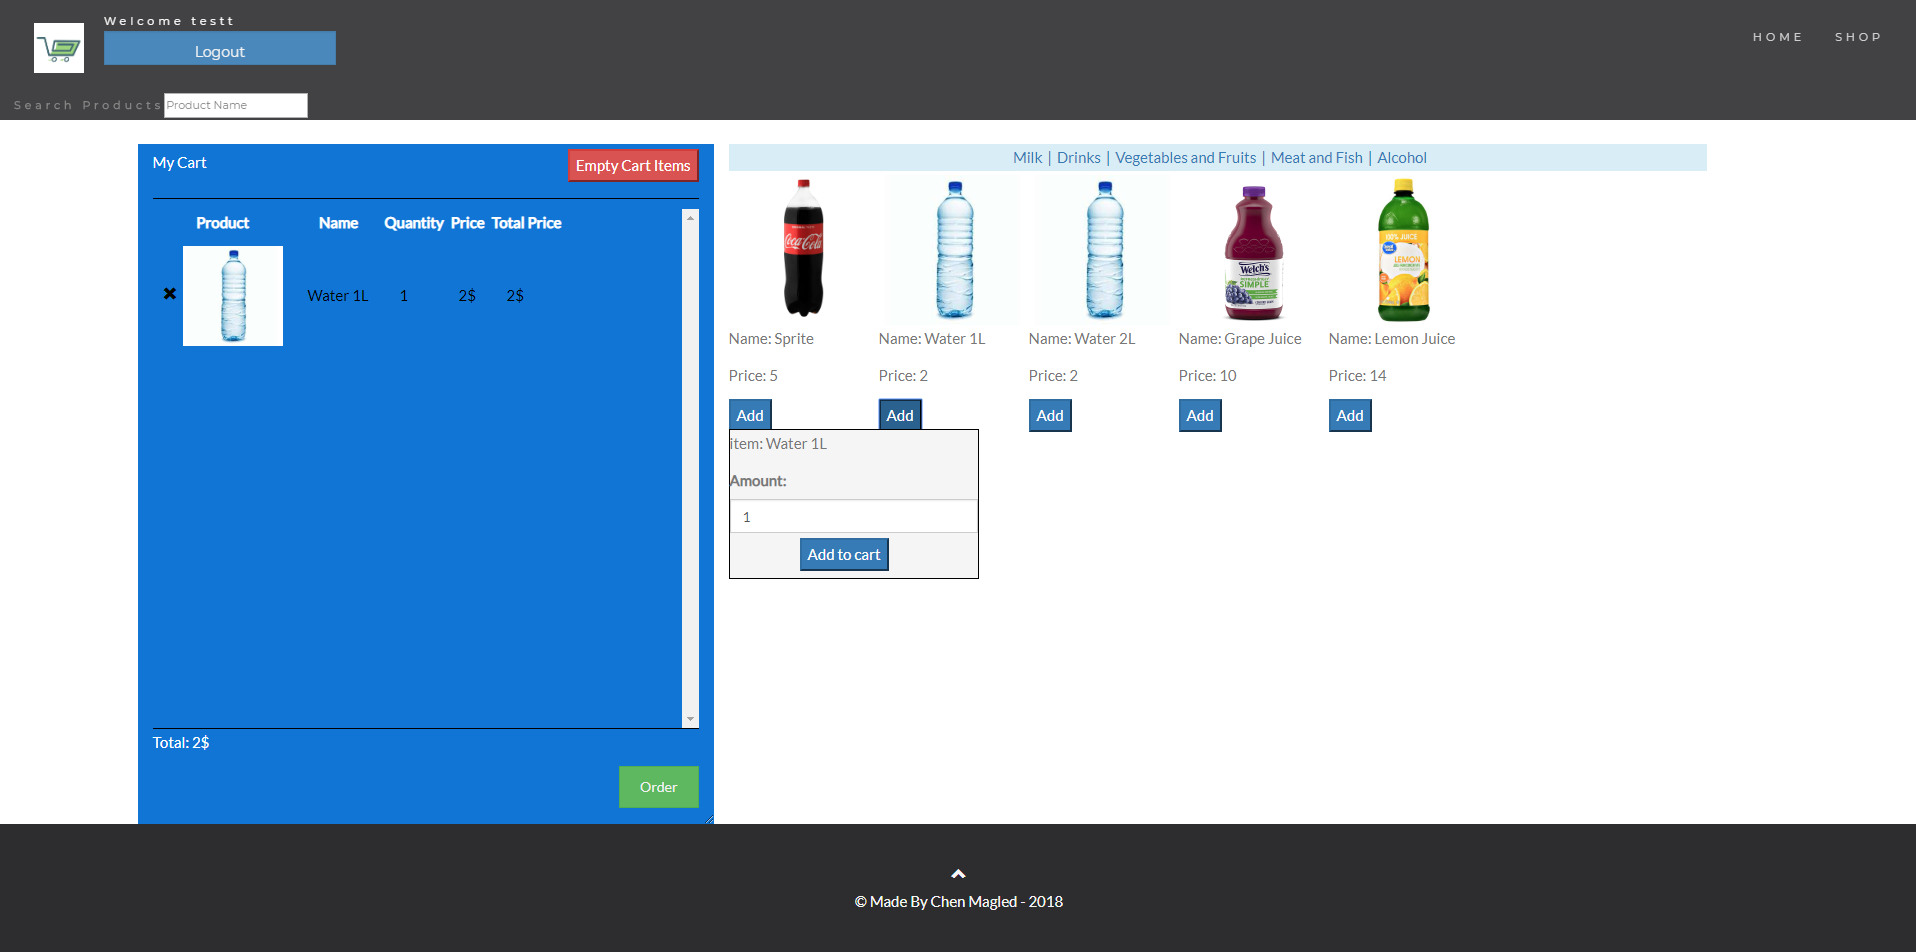
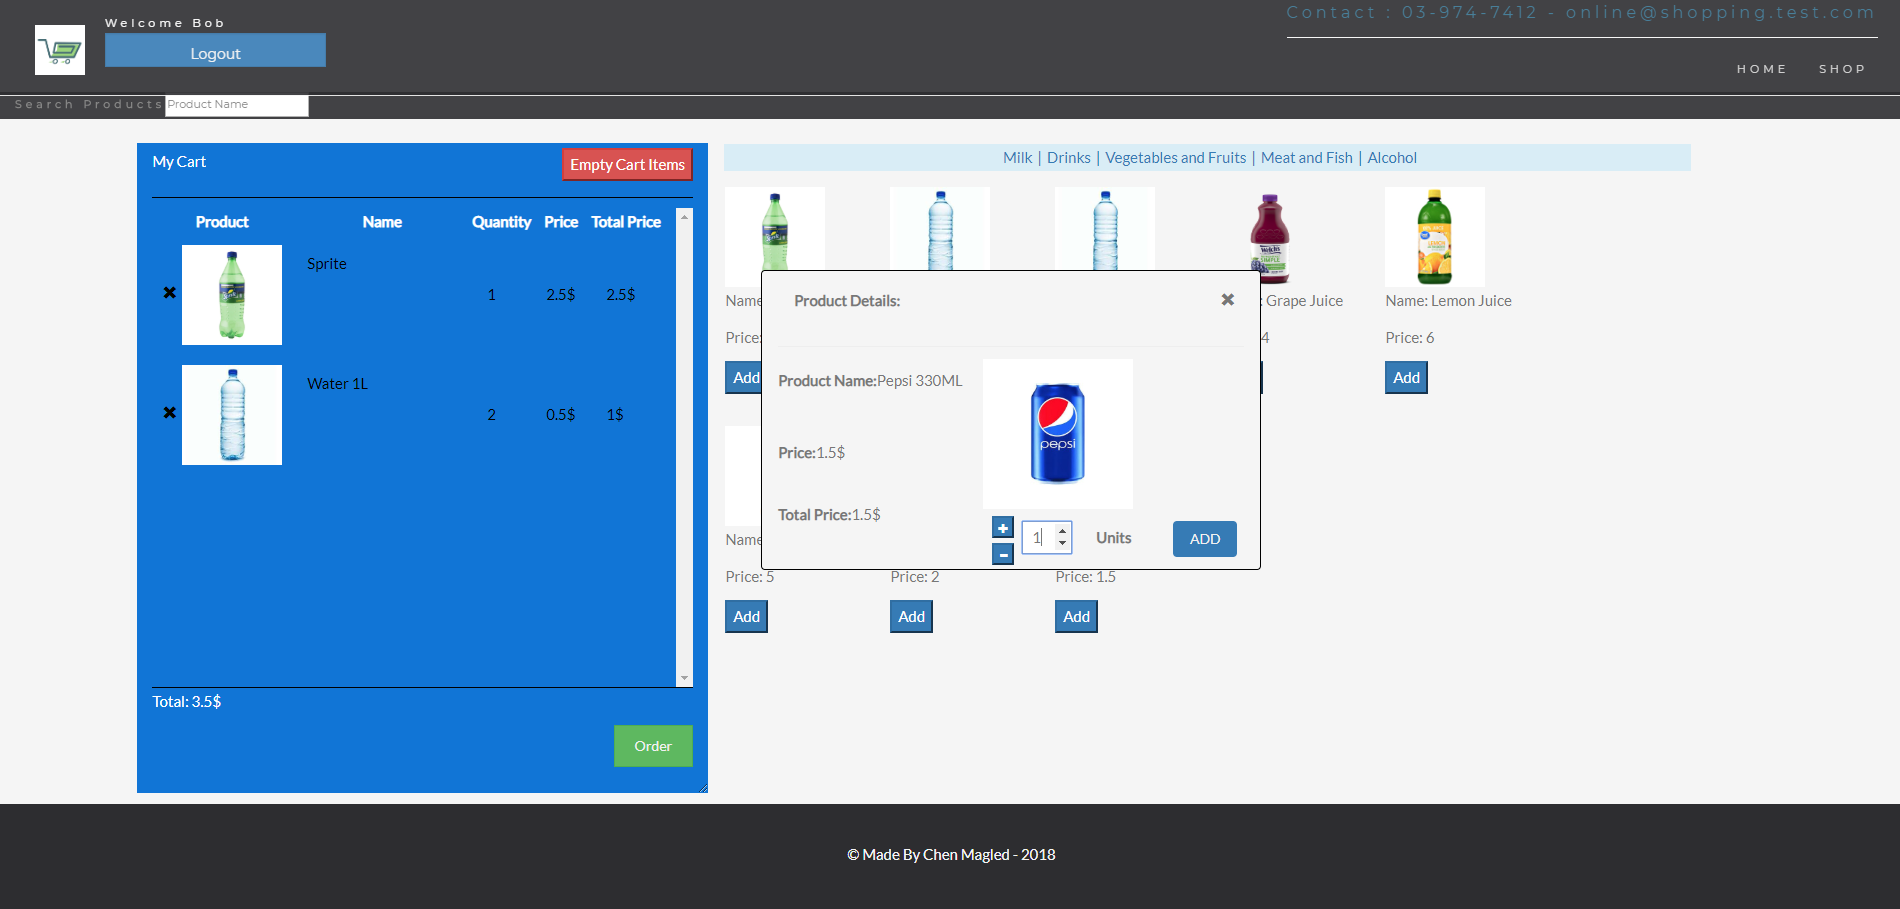
Home Page pictures and text, header improvements with contactus, pictures, etc

diff --git a/Shopping Online/client/src/app/home/home.component.html b/Shopping Online/client/src/app/home/home.component.html
@@ -10,15 +10,33 @@
         <div class="col-sm-4 flex-grow-0 bg-primary homeContainerDiv"><!-- Description -->
             
             <div class="w-50 h-50">
-                Please buy from us!!!!!! we are good!
+                <h2>Why you should buy from us:</h2>
+                <ul>
+
+                    <li>Customer friendly e-commerce website to securely purchase items online.</li>
+                    <li>Customers save time and money buying from shopping online.</li>
+                    <li>Our store provides exceptional and extraordinary customer service with attention to detail.</li>
+                    <li>Items offered at best possible prices.</li>
+                    <li>Free gift wrapping & personalised service.</li>
+                    <li>Free delivery* to your doorstep by courier.</li>
+
+                </ul>
+                <span>* Checkout total price is more than 49.99$</span>
+                <div class="customerServiceBadge">
+                        <img width="150px" src='/assets/images/world-class-customer-service_large.png'/>
+                </div>
+
             </div>
 
         </div>
         <div class="col-sm-3 flex-grow-0 bg-primary homeContainerDiv"><!-- Statistics -->
  
             <div class="w-50 h-50">
-                Picture(img)
+
+                <img id="shopOnlineImg" width="400px" src='/assets/images/shoppingBanner.jpg'/>
+                <hr>
                <p>Available products in our store: {{productsCounter.count}}</p>
+               <hr>
                <p>Number of orders submitted in our store: {{ordersCounter.count}}</p>
 
                 <div class="notificationInfoContainer">

diff --git a/Shopping Online/client/src/app/my-cart/my-cart.component.html b/Shopping Online/client/src/app/my-cart/my-cart.component.html
@@ -26,16 +26,16 @@
               <td><a *ngIf="user.state === 'shopping'" (click)="removeCartItem(cartitem._id)" class="text-dark" href="javascript:"><span class="glyphicon glyphicon-remove"></span></a> <img [src]="cartitem.imageAddress" width="100"></td>
               
               <div [ngSwitch]="cartItemSearch.cartItems.includes(cartitem.name) && user.state === 'order'">
-                  <td *ngSwitchCase = "true" ><span class="productSpan bg-warning">{{cartitem.name}}</span></td>
-                  <td *ngSwitchCase = "false" ><span class="productSpan">{{cartitem.name}}</span></td>
+                  <td *ngSwitchCase = "true" ><span class="productSpan bg-warning cartItemNameTD">{{cartitem.name}}</span></td>
+                  <td *ngSwitchCase = "false" ><span class="productSpan cartItemNameTD">{{cartitem.name}}</span></td>
 
               </div>
 
 
 
-              <td><span class="productSpan">{{cartitem.amount}}</span></td>
+              <td class="cartItemAmountTD"><span class="productSpan">{{cartitem.amount}}</span></td>
               <td><span class="productSpan">{{cartitem.priceSingle}}$</span></td>
-              <td><span class="productSpan">{{cartitem.totalPrice}}$</span></td>
+              <td class="cartItemTotalPriceTD"><span class="productSpan ">{{cartitem.totalPrice}}$</span></td>
     
             </tr>
     

diff --git a/Shopping Online/client/src/app/order-creation/order-creation.component.ts b/Shopping Online/client/src/app/order-creation/order-creation.component.ts
@@ -16,7 +16,7 @@ export class OrderCreationComponent implements OnInit {
   orderAvailableCities: any = {cities: []};
   orderForm: FormGroup;
   orderFormErrors: any = { errors: []};
-
+  today: String;
 
   constructor(private myUserService: UserService, private myOrderService: OrdersService, private myHttpClient: HttpClient) {
 
@@ -26,12 +26,31 @@ export class OrderCreationComponent implements OnInit {
 
       city: this.getFormControl(2, 25, 'City'),
       street: this.getFormControl(2, 25, 'Street'),
-      shippingDate: new FormControl(''),
+      shippingDate: new FormControl('', [
+        f => (!f.value ?  { err: `` } : null),
+        f => (!f.value && !f.pristine ? { err: `Date is required` } : null),
+      ]),
       visaDigits: this.getFormControl(4, 4, 'Visa Digits'),
 
     };
 
     this.orderForm = new FormGroup(orderFormConfig);
+
+    const today = new Date();
+    let dd = today.getDate();
+    let mm = today.getMonth() + 1; // January is 0!
+    const yyyy = today.getFullYear();
+
+    if (dd < 10) {
+        dd = '0' + dd;
+    }
+
+    if (mm < 10) {
+        mm = '0' + mm;
+    }
+
+    this.today = yyyy + '-' + mm + '-' + dd;
+
   }
 
   initOrderCities() {

diff --git a/Shopping Online/client/src/app/mat-product-confirm-dialog/mat-product-confirm-dialog.component.ts b/Shopping Online/client/src/app/mat-product-confirm-dialog/mat-product-confirm-dialog.component.ts
@@ -14,6 +14,7 @@ export class MatProductConfirmDialogComponent implements OnInit {
   ProductQuantityValue: Number;
   selectedProductForCart: any = {product: undefined};
   user: User;
+  maxProducts: Number = 15;
 
   // tslint:disable-next-line:max-line-length
   constructor(private myProductsService: ProductsService, private myUserService: UserService, private matdialog: MatDialog ) {
@@ -33,6 +34,7 @@ export class MatProductConfirmDialogComponent implements OnInit {
 
   plusOneQuantity (quantity) {
     quantity++;
+    if ( quantity > this.maxProducts ) { return; }
     this.ProductQuantityValue = quantity;
   }
 
@@ -44,6 +46,10 @@ export class MatProductConfirmDialogComponent implements OnInit {
   }
 
   updateQuantity (quantity) {
+    if ( quantity > this.maxProducts ) {
+      this.ProductQuantityValue = this.maxProducts;
+      return;
+    }
     this.ProductQuantityValue = quantity;
   }
 

diff --git a/Shopping Online/client/src/app/order-creation/order-creation.component.html b/Shopping Online/client/src/app/order-creation/order-creation.component.html
@@ -26,7 +26,7 @@
 
             <div class="form-group">
                 <label>Shipping Date:</label>
-                <input type="date" class="form-control" formControlName="shippingDate" />
+                <input type="date" [min]="today" class="form-control" [value]="today" formControlName="shippingDate" />
                 <p>{{orderForm.controls.shippingDate.errors?.err}}</p>
             </div>
 
@@ -34,7 +34,7 @@
 
             <div class="form-group">
                 <label>Credit Card:</label>
-                <input type="text" class="form-control" formControlName="visaDigits" #visaDigitsInput/>
+                <input type="text"class="form-control" formControlName="visaDigits" #visaDigitsInput/>
                 <p>{{orderForm.controls.visaDigits.errors?.err}}</p>
             </div>
 

diff --git a/Shopping Online/client/src/app/mat-product-confirm-dialog/mat-product-confirm-dialog.component.html b/Shopping Online/client/src/app/mat-product-confirm-dialog/mat-product-confirm-dialog.component.html
@@ -25,7 +25,7 @@
       </div>
 
       <div class="container_of_quantities">
-        <input #quantity class="input_quantity_of_products" (keyup)="updateQuantity(quantity.value)" [value] = "ProductQuantityValue">
+        <input type="number" #quantity class="input_quantity_of_products" (keyup)="updateQuantity(quantity.value)" [max]="maxProducts" [value] = "ProductQuantityValue">
         <button class="plus_product btn-primary" (click) = "plusOneQuantity(quantity.value)" ><span class="glyphicon glyphicon-plus"></span></button>
         <button class="minus_product btn-primary" (click) = "minusOneQuantity(quantity.value)" ><span class="glyphicon glyphicon-minus"></span></button>
         <label class="per_unit_label">Units</label>

diff --git a/Shopping Online/client/src/app/head/head.component.css b/Shopping Online/client/src/app/head/head.component.css
@@ -2,13 +2,31 @@ img{
     height:50px;
 }
 
-.navbar-header,#myNavbar{
+.navbar-header{
     padding: 20px;
+
 }
 
+#myNavbar{
+    padding: 20px;
+    margin-top: 30px;
+}
 
 #profile{
     margin-left:20px;
     display: inline-block;
     color:white;
+}
+
+.float-right{
+
+    float:right;
+
+}
+
+.contactUsDiv{
+    margin-top: 5px;
+    font-size: 16px;
+    border-bottom: 1px solid whitesmoke;
+    margin-right: 10px;
 }

diff --git a/Shopping Online/client/src/app/mat-product-confirm-dialog/mat-product-confirm-dialog.component.css b/Shopping Online/client/src/app/mat-product-confirm-dialog/mat-product-confirm-dialog.component.css
@@ -58,14 +58,14 @@
 
 .input_quantity_of_products{
     position: relative;
-    width: 30px;
+    width: 50px;
     left: 20px;
     padding-left: 8px;
 }
 
 .plus_product{
     position: relative;
-    right: 36px;
+    right: 60px;
     width: 22px;
     height: 22px;
     bottom: 11px;
@@ -84,7 +84,7 @@
     top: 16px;
     width: 22px;
     height: 22px;
-    right: 58px;
+    right: 82px;
     font-size: 10px;
 }
 

diff --git a/Shopping Online/client/src/app/add-edit-product/add-edit-product.component.ts b/Shopping Online/client/src/app/add-edit-product/add-edit-product.component.ts
@@ -28,7 +28,7 @@ export class AddEditProductComponent implements OnInit {
 
     const editAddFormConfig = {
 
-      name: this.getFormControl(2, 15, 'Name'),
+      name: this.getFormControl(2, 99, 'Name'),
       price: this.getFormControl(1, 999999, 'Price'),
       imageAddress: this.getFormControl(18, 999999, 'Image Address(/assets/images/name.png)'),
       category: this.getFormControl(1, 99, 'Category'),

diff --git a/Shopping Online/client/src/app/head/head.component.ts b/Shopping Online/client/src/app/head/head.component.ts
@@ -9,8 +9,10 @@ import { User } from '../shared/models/user.model';
 })
 export class HeadComponent implements OnInit {
   user: User;
+  store: { phone: string; email: string; };
   constructor(private myUserService: UserService) {
     this.user = this.myUserService.currentUser;
+    this.store = {phone: '03-974-7412', email: 'online@shopping.test.com'}
   }
 
   logout() {

diff --git a/Shopping Online/client/src/styles.css b/Shopping Online/client/src/styles.css
@@ -80,6 +80,7 @@ h3, h4 {
     font-size: 11px !important;
     letter-spacing: 4px;
     opacity: 0.9;
+    border-bottom: 1px solid whitesmoke
 }
 .navbar li a, .navbar .navbar-brand { 
     color: #d5d5d5 !important;
@@ -111,6 +112,7 @@ footer {
     color: #f5f5f5;
     padding: 36.5px;
     z-index: 1;
+    bottom: 0;
 }
 footer a {
     color: #f5f5f5;

diff --git a/Shopping Online/client/src/app/head/head.component.html b/Shopping Online/client/src/app/head/head.component.html
@@ -6,7 +6,11 @@
             </span>
             
         </div>
+        <div class="float-right contactUsDiv">
+            <p class="text-info">Contact : <span>{{store.phone}} - {{store.email}}</span></p>
+        </div>
         <div id="myNavbar">
+
             <ul class="nav navbar-nav navbar-right">
 
 
